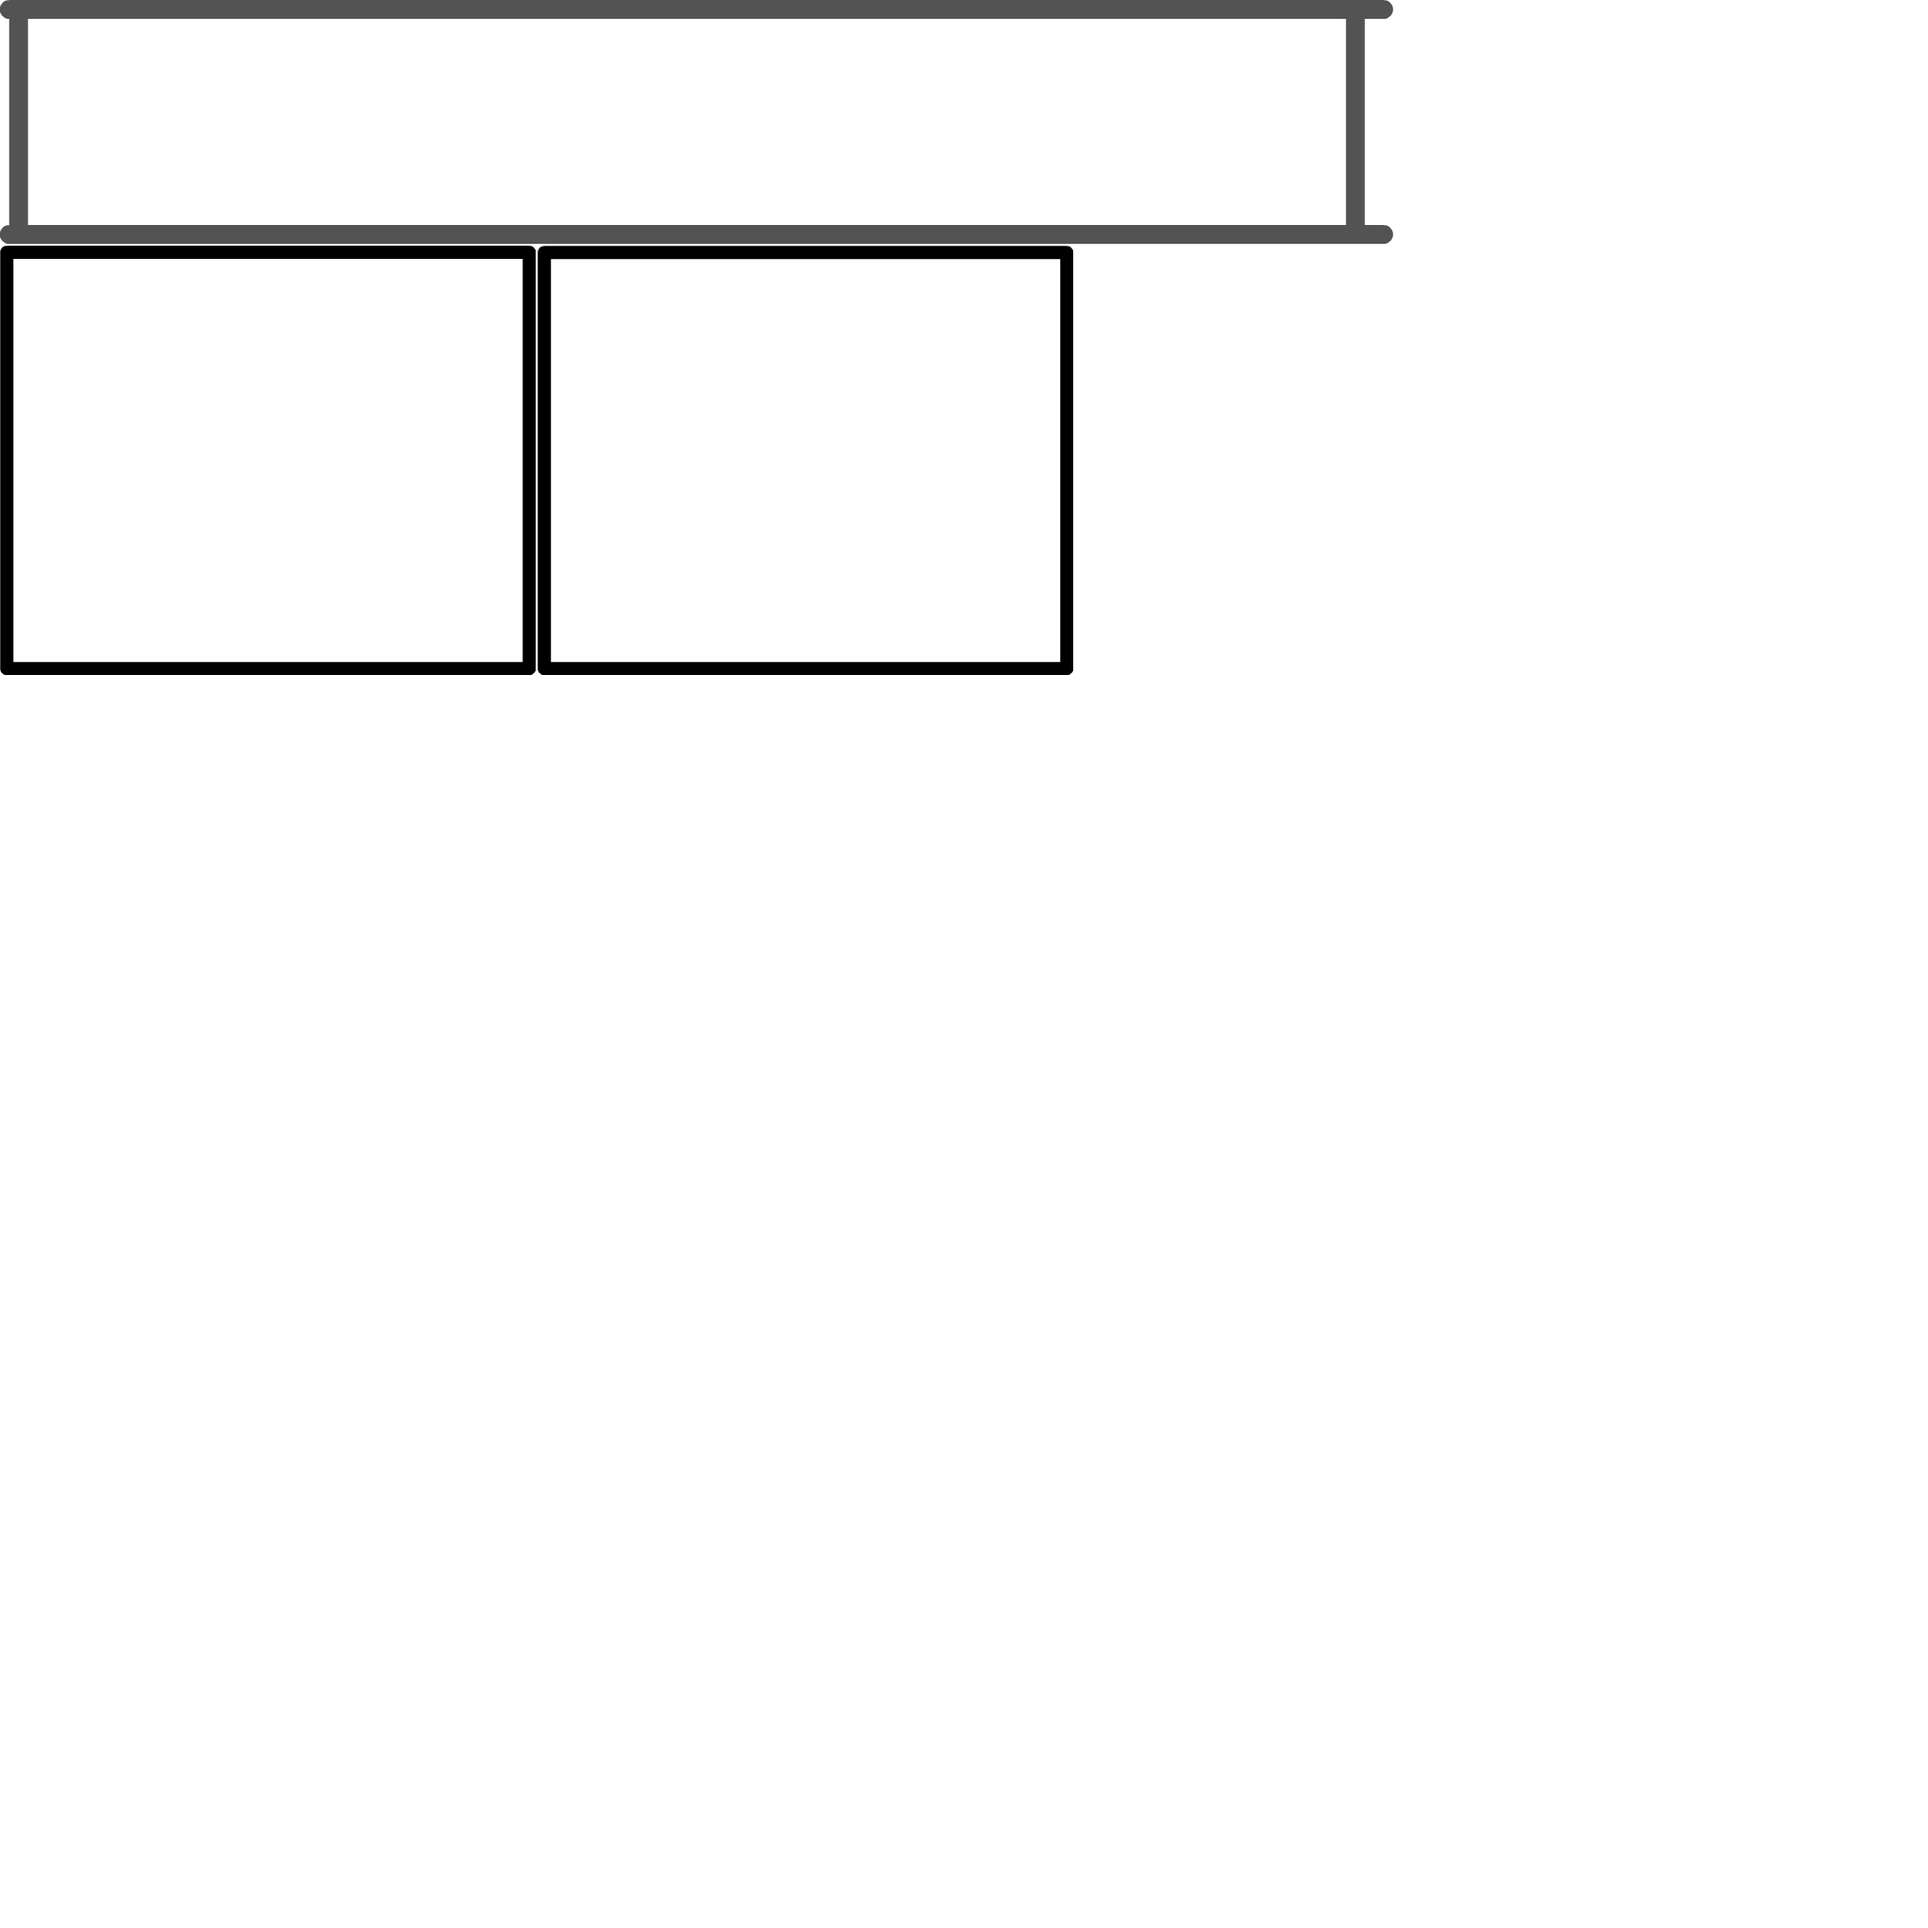
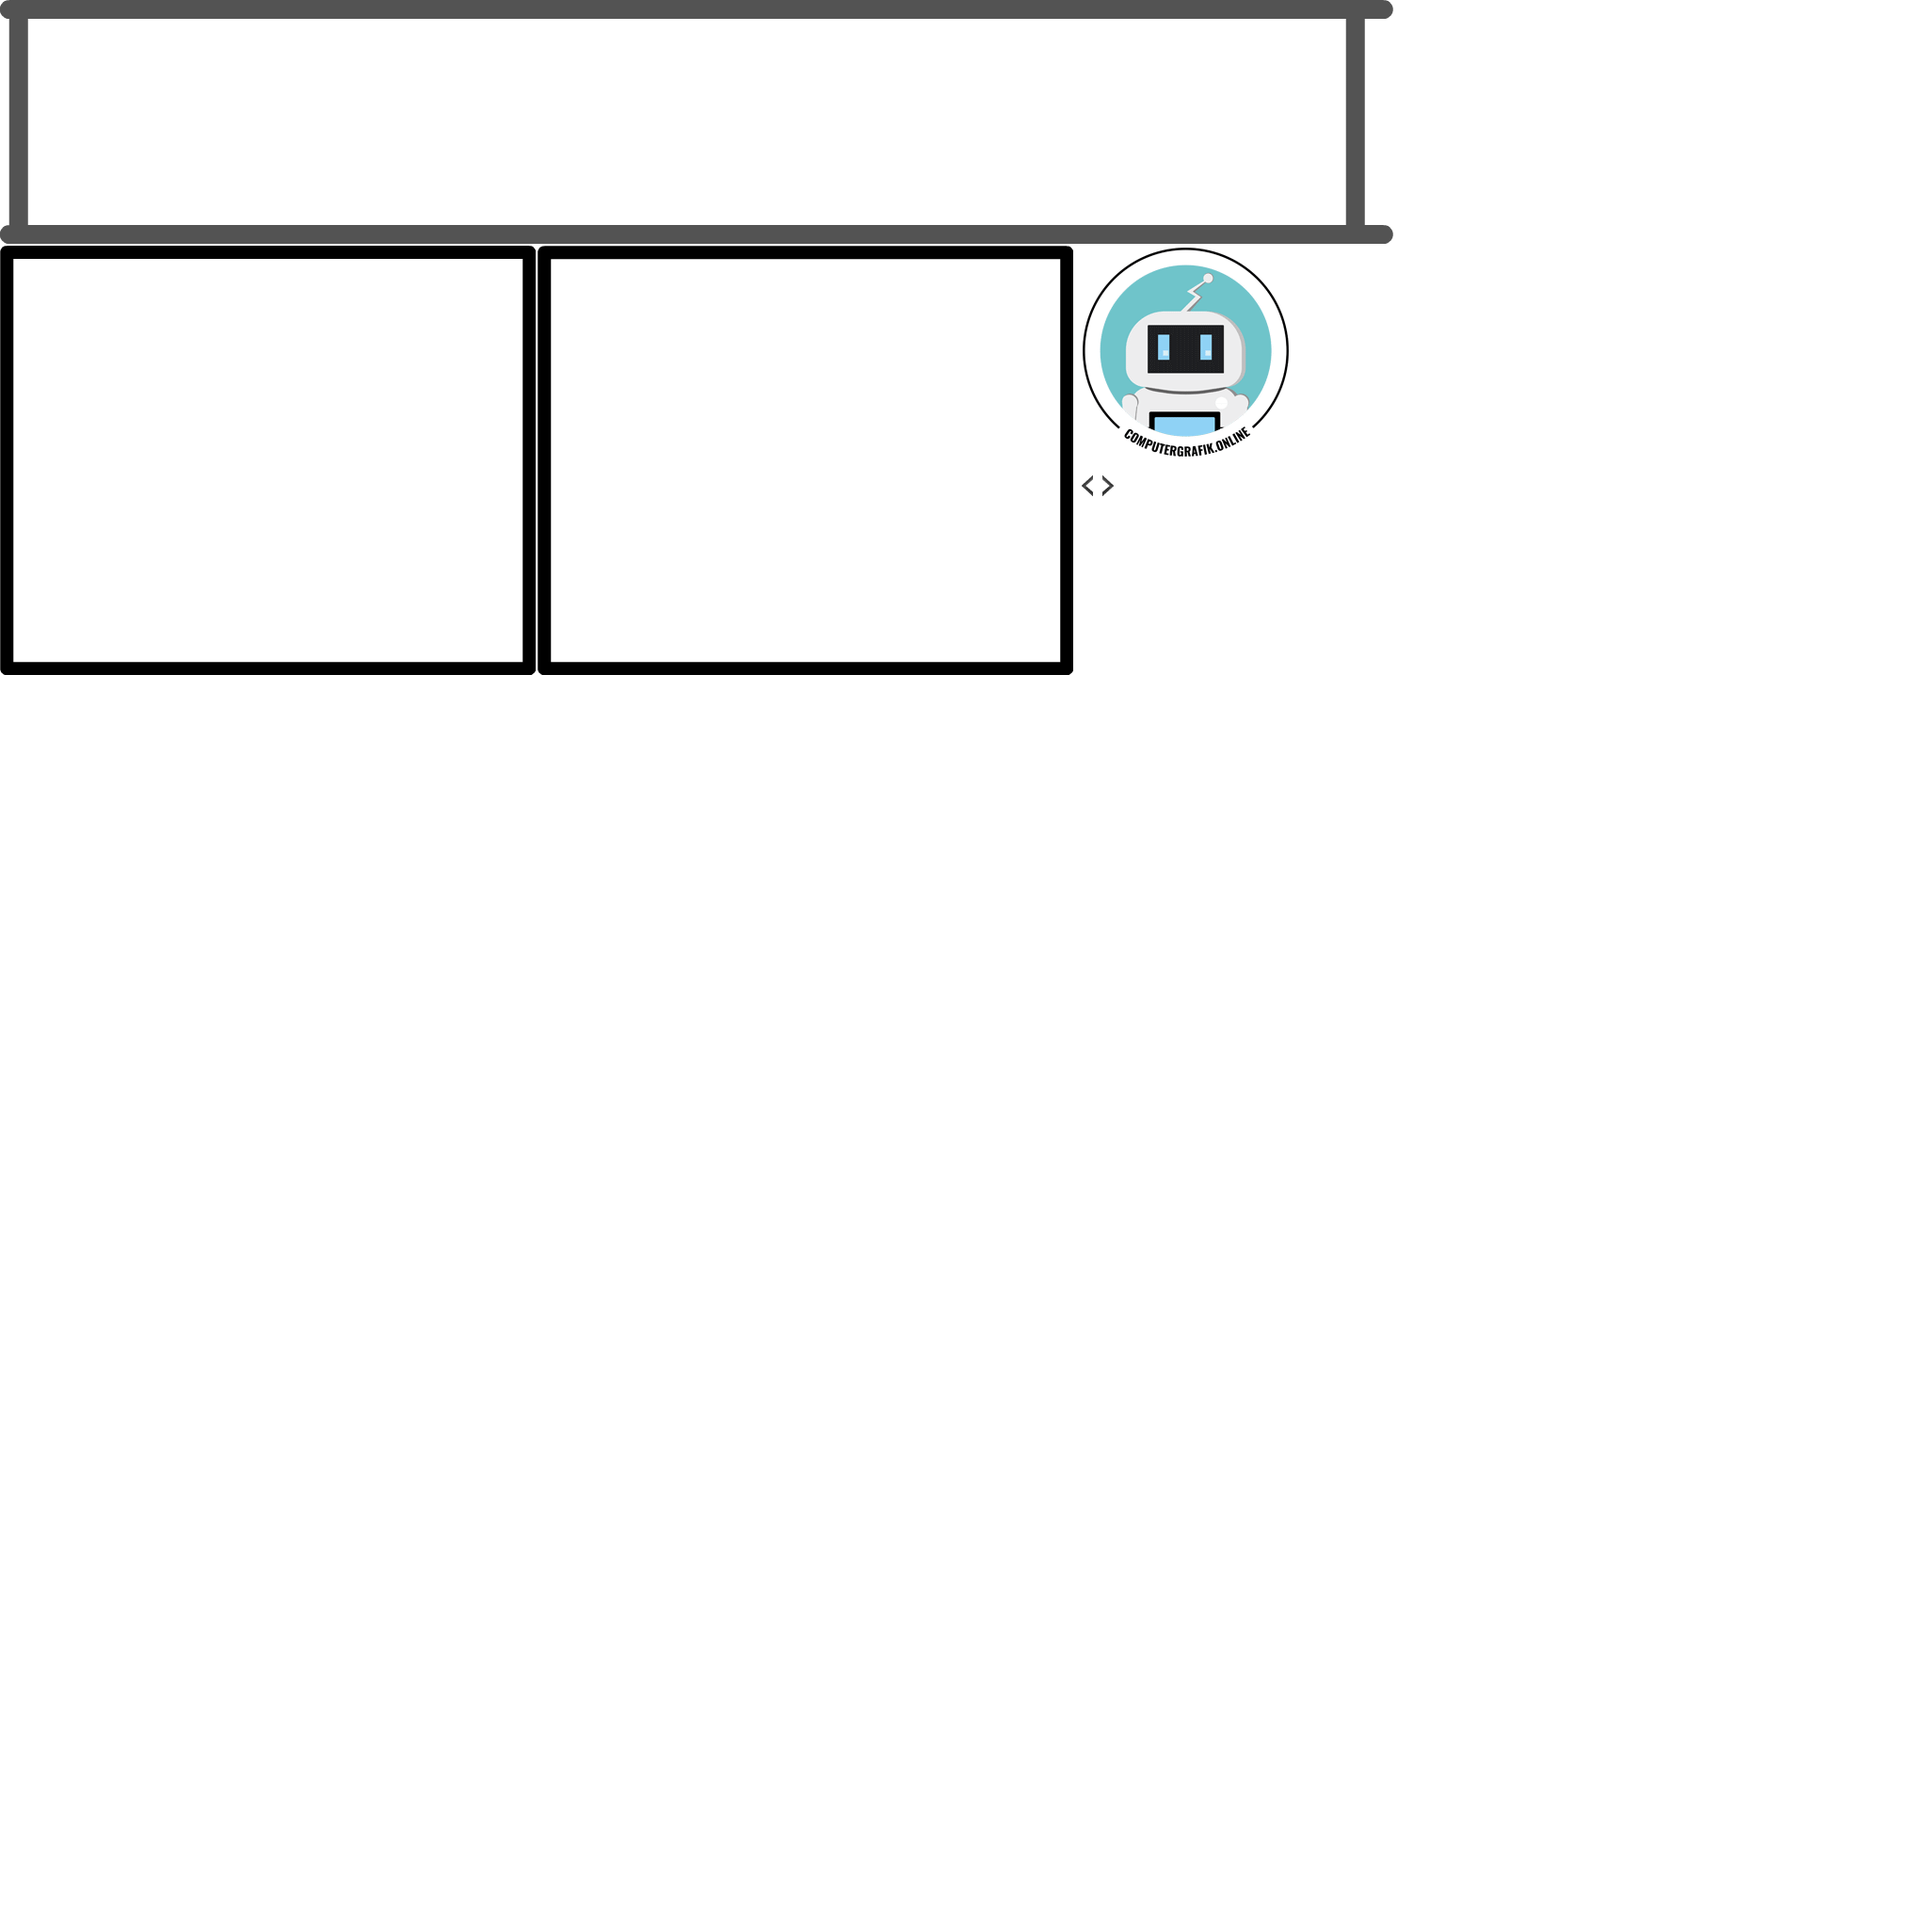
edit vektorgrafik

Changed region(s): [[0.5625, 0.125, 0.6875, 0.25]]

diff --git a/Interaktionen/07-Vektorgrafik/Interaktion_RGVG/RGvsVG_Hochkant2.js b/Interaktionen/07-Vektorgrafik/Interaktion_RGVG/RGvsVG_Hochkant2.js
@@ -4,7 +4,7 @@ var p; // shortcut to reference prototypes
 var lib={};var ss={};var img={};
 lib.ssMetadata = [
 		{name:"RGvsVG_Hochkant2_atlas_", frames: [[0,0,1469,2027]]},
-		{name:"RGvsVG_Hochkant2_atlas_2", frames: [[0,0,1480,259],[0,261,569,456],[571,261,569,456]]}
+		{name:"RGvsVG_Hochkant2_atlas_2", frames: [[0,0,1480,259],[0,261,569,456],[571,261,569,456],[1142,493,47,47],[1142,261,227,230]]}
 ];
 
 
@@ -12,32 +12,58 @@ lib.ssMetadata = [
 
 
 
-(lib.CachedTexturedBitmap_51 = function() {
+(lib.CachedTexturedBitmap_2 = function() {
 	this.initialize(ss["RGvsVG_Hochkant2_atlas_2"]);
 	this.gotoAndStop(0);
 }).prototype = p = new cjs.Sprite();
 
 
 
-(lib.CachedTexturedBitmap_52 = function() {
+(lib.CachedTexturedBitmap_3 = function() {
 	this.initialize(ss["RGvsVG_Hochkant2_atlas_"]);
 	this.gotoAndStop(0);
 }).prototype = p = new cjs.Sprite();
 
 
 
-(lib.CachedTexturedBitmap_53 = function() {
+(lib.CachedTexturedBitmap_4 = function() {
 	this.initialize(ss["RGvsVG_Hochkant2_atlas_2"]);
 	this.gotoAndStop(1);
 }).prototype = p = new cjs.Sprite();
 
 
 
-(lib.CachedTexturedBitmap_54 = function() {
+(lib.CachedTexturedBitmap_5 = function() {
 	this.initialize(ss["RGvsVG_Hochkant2_atlas_2"]);
 	this.gotoAndStop(2);
 }).prototype = p = new cjs.Sprite();
-// helper functions:
+
+
+
+(lib.CSSKopie = function() {
+	this.initialize(ss["RGvsVG_Hochkant2_atlas_2"]);
+	this.gotoAndStop(3);
+}).prototype = p = new cjs.Sprite();
+
+
+
+(lib.Logoklein = function() {
+	this.initialize(ss["RGvsVG_Hochkant2_atlas_2"]);
+	this.gotoAndStop(4);
+}).prototype = p = new cjs.Sprite();
+
+
+
+(lib.Roboter_LogopngKopie = function() {
+	this.initialize(img.Roboter_LogopngKopie);
+}).prototype = p = new cjs.Bitmap();
+p.nominalBounds = new cjs.Rectangle(0,0,2332,2416);
+
+
+(lib.Roboter_LogoGroß = function() {
+	this.initialize(img.Roboter_LogoGroß);
+}).prototype = p = new cjs.Bitmap();
+p.nominalBounds = new cjs.Rectangle(0,0,2332,2416);// helper functions:
 
 function mc_symbol_clone() {
 	var clone = this._cloneProps(new this.constructor(this.mode, this.startPosition, this.loop));
@@ -59,11 +85,25 @@ function getMCSymbolPrototype(symbol, nominalBounds, frameBounds) {
 (lib.Test3_Ebene_1 = function(mode,startPosition,loop) {
 	this.initialize(mode,startPosition,loop,{});
 
+	// Ebene_1
+	this.instance = new lib.Roboter_LogoGroß();
+	this.instance.parent = this;
+	this.instance.setTransform(-58.25,0,0.05,0.05);
+
+	this.timeline.addTween(cjs.Tween.get(this.instance).wait(1));
+
 }).prototype = getMCSymbolPrototype(lib.Test3_Ebene_1, null, null);
 
 
 (lib.Test2_Ebene_1 = function(mode,startPosition,loop) {
 	this.initialize(mode,startPosition,loop,{});
+
+	// Ebene_1
+	this.instance = new lib.Logoklein();
+	this.instance.parent = this;
+	this.instance.setTransform(-57.85,0,0.51,0.51);
+
+	this.timeline.addTween(cjs.Tween.get(this.instance).wait(1));
 
 }).prototype = getMCSymbolPrototype(lib.Test2_Ebene_1, null, null);
 
@@ -74,14 +114,14 @@ function getMCSymbolPrototype(symbol, nominalBounds, frameBounds) {
 	// Text
 	this.text = new cjs.Text("Vektorgrafik", "29px 'Oswald'");
 	this.text.textAlign = "center";
-	this.text.lineHeight = 51;
+	this.text.lineHeight = 45;
 	this.text.lineWidth = 136;
 	this.text.parent = this;
 	this.text.setTransform(199.7,379.3,1.59,1.59);
 
 	this.text_1 = new cjs.Text("Rastergrafik", "29px 'Oswald'");
 	this.text_1.textAlign = "center";
-	this.text_1.lineHeight = 51;
+	this.text_1.lineHeight = 45;
 	this.text_1.lineWidth = 136;
 	this.text_1.parent = this;
 	this.text_1.setTransform(199.7,54.1,1.59,1.59);
@@ -95,7 +135,7 @@ function getMCSymbolPrototype(symbol, nominalBounds, frameBounds) {
 	this.initialize(mode,startPosition,loop,{});
 
 	// RahmenPng
-	this.instance = new lib.CachedTexturedBitmap_53();
+	this.instance = new lib.CachedTexturedBitmap_4();
 	this.instance.parent = this;
 	this.instance.setTransform(377.1,455.4,0.5,0.5);
 
@@ -108,7 +148,7 @@ function getMCSymbolPrototype(symbol, nominalBounds, frameBounds) {
 	this.initialize(mode,startPosition,loop,{});
 
 	// Rahmenjpg
-	this.instance = new lib.CachedTexturedBitmap_54();
+	this.instance = new lib.CachedTexturedBitmap_5();
 	this.instance.parent = this;
 	this.instance.setTransform(377.1,123.85,0.5,0.5);
 
@@ -121,7 +161,7 @@ function getMCSymbolPrototype(symbol, nominalBounds, frameBounds) {
 	this.initialize(mode,startPosition,loop,{});
 
 	// Maske_Rastergrafik
-	this.instance = new lib.CachedTexturedBitmap_52();
+	this.instance = new lib.CachedTexturedBitmap_3();
 	this.instance.parent = this;
 	this.instance.setTransform(2.1,-272.7,0.5,0.5);
 
@@ -134,7 +174,7 @@ function getMCSymbolPrototype(symbol, nominalBounds, frameBounds) {
 	this.initialize(mode,startPosition,loop,{});
 
 	// INteraktionsbereich
-	this.instance = new lib.CachedTexturedBitmap_51();
+	this.instance = new lib.CachedTexturedBitmap_2();
 	this.instance.parent = this;
 	this.instance.setTransform(-3.45,730.95,0.5,0.5);
 
@@ -147,7 +187,7 @@ function getMCSymbolPrototype(symbol, nominalBounds, frameBounds) {
 	this.initialize(mode,startPosition,loop,{});
 
 	// Ebene_7
-	this.instance = new lib.CachedTexturedBitmap_53();
+	this.instance = new lib.CachedTexturedBitmap_4();
 	this.instance.parent = this;
 	this.instance.setTransform(377.1,455.4,0.5,0.5);
 
@@ -159,11 +199,25 @@ function getMCSymbolPrototype(symbol, nominalBounds, frameBounds) {
 (lib.pngimage_Ebene_1 = function(mode,startPosition,loop) {
 	this.initialize(mode,startPosition,loop,{});
 
+	// Ebene_1
+	this.instance = new lib.Roboter_LogopngKopie();
+	this.instance.parent = this;
+	this.instance.setTransform(-57.1,-59.15,0.049,0.049);
+
+	this.timeline.addTween(cjs.Tween.get(this.instance).wait(1));
+
 }).prototype = getMCSymbolPrototype(lib.pngimage_Ebene_1, null, null);
 
 
 (lib.jpgimage2_Ebene_1 = function(mode,startPosition,loop) {
 	this.initialize(mode,startPosition,loop,{});
+
+	// Ebene_1
+	this.instance = new lib.Logoklein();
+	this.instance.parent = this;
+	this.instance.setTransform(-57.85,-58.65,0.51,0.51);
+
+	this.timeline.addTween(cjs.Tween.get(this.instance).wait(1));
 
 }).prototype = getMCSymbolPrototype(lib.jpgimage2_Ebene_1, null, null);
 
@@ -399,7 +453,7 @@ p._updateVisibility = _updateVisibility;
 		var positionY1 = jpgtest.y;
 		var positionY2 = pngtest.y;
 		
-		console.log(imageRoboter);
+		//console.log(imageRoboter);
 		
 		function changePictureSize(val)
 		{
@@ -595,11 +649,13 @@ lib.properties = {
 	color: "#FFFFFF",
 	opacity: 1.00,
 	manifest: [
-		{src:"images/RGvsVG_Hochkant2_atlas_.png?1546633313037", id:"RGvsVG_Hochkant2_atlas_"},
-		{src:"images/RGvsVG_Hochkant2_atlas_2.png?1546633313037", id:"RGvsVG_Hochkant2_atlas_2"},
-		{src:"https://code.jquery.com/jquery-2.2.4.min.js?1546633313049", id:"lib/jquery-2.2.4.min.js"},
-		{src:"components/sdk/anwidget.js?1546633313049", id:"sdk/anwidget.js"},
-		{src:"components/ui/src/css.js?1546633313049", id:"an.CSS"}
+		{src:"images/Roboter_LogopngKopie.png", id:"Roboter_LogopngKopie"},
+		{src:"images/Roboter_LogoGroß.jpg", id:"Roboter_LogoGroß"},
+		{src:"images/RGvsVG_Hochkant2_atlas_.png", id:"RGvsVG_Hochkant2_atlas_"},
+		{src:"images/RGvsVG_Hochkant2_atlas_2.png", id:"RGvsVG_Hochkant2_atlas_2"},
+		{src:"https://code.jquery.com/jquery-2.2.4.min.js", id:"lib/jquery-2.2.4.min.js"},
+		{src:"components/sdk/anwidget.js", id:"sdk/anwidget.js"},
+		{src:"components/ui/src/css.js", id:"an.CSS"}
 	],
 	preloads: []
 };

diff --git a/Interaktionen/07-Vektorgrafik/Interaktion_RGVG/sliderCss.css b/Interaktionen/07-Vektorgrafik/Interaktion_RGVG/sliderCss.css
@@ -1,0 +1,63 @@
+input[type=range]{
+    -webkit-appearance: none;
+}
+
+input[type=range]::-webkit-slider-runnable-track {
+    width: 300px;
+    height: 5px;
+    background: #b2b2b2;
+
+}
+
+input[type=range]::-webkit-slider-thumb {
+    -webkit-appearance: none;
+    border: none;
+    height: 16px;
+    width: 16px;
+    border-radius: 50%;
+    background: #00CBFF;
+    margin-top: -4px;
+    cursor: grab;
+}
+
+input[type=range]:focus {
+    outline: none;
+}
+
+input[type=range]:focus::-webkit-slider-runnable-track {
+    background: #ccc;
+}
+
+input[type=range]{
+    /* fix for FF unable to apply focus style bug  */
+    border: 1px solid white;
+
+    /*required for proper track sizing in FF*/
+    width: 300px;
+}
+
+input[type=range]::-moz-range-track {
+    width: 300px;
+    height: 5px;
+    background: #b2b2b2;
+
+}
+
+input[type=range]::-moz-range-thumb {
+    border: none;
+    height: 16px;
+    width: 16px;
+    border-radius: 50%;
+    background: #00CBFF;
+    cursor: grab;
+}
+
+/*hide the outline behind the border*/
+input[type=range]:-moz-focusring{
+    outline: 1px solid white;
+    outline-offset: -1px;
+}
+
+input[type=range]:focus::-moz-range-track {
+    background: #ccc;
+}

diff --git a/Interaktionen/07-Vektorgrafik/Interaktion_RGVG/RGvsVG_Hochkant2.html b/Interaktionen/07-Vektorgrafik/Interaktion_RGVG/RGvsVG_Hochkant2.html
@@ -14,7 +14,7 @@
 <title>RGvsVG_Hochkant2</title>
 <!-- write your code here -->
 <script src="https://code.createjs.com/createjs-2015.11.26.min.js"></script>
-<script src="RGvsVG_Hochkant2.js?1546633313064"></script>
+<script src="RGvsVG_Hochkant2.js"></script>
 <script>
 var canvas, stage, exportRoot, anim_container, dom_overlay_container, fnStartAnimation;
 function init() {
